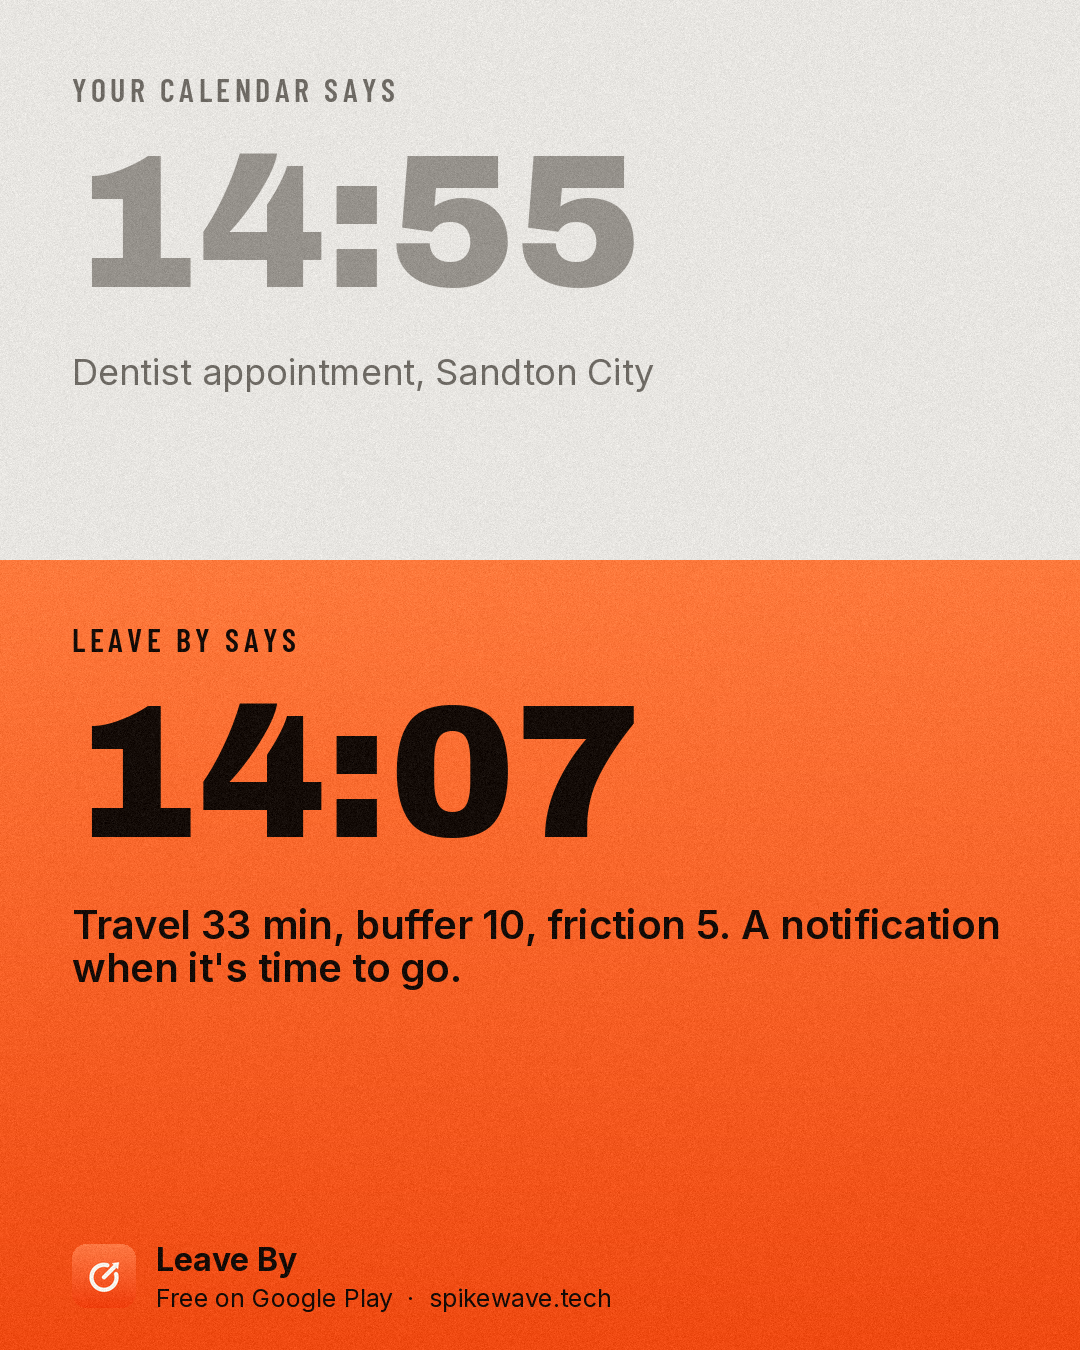
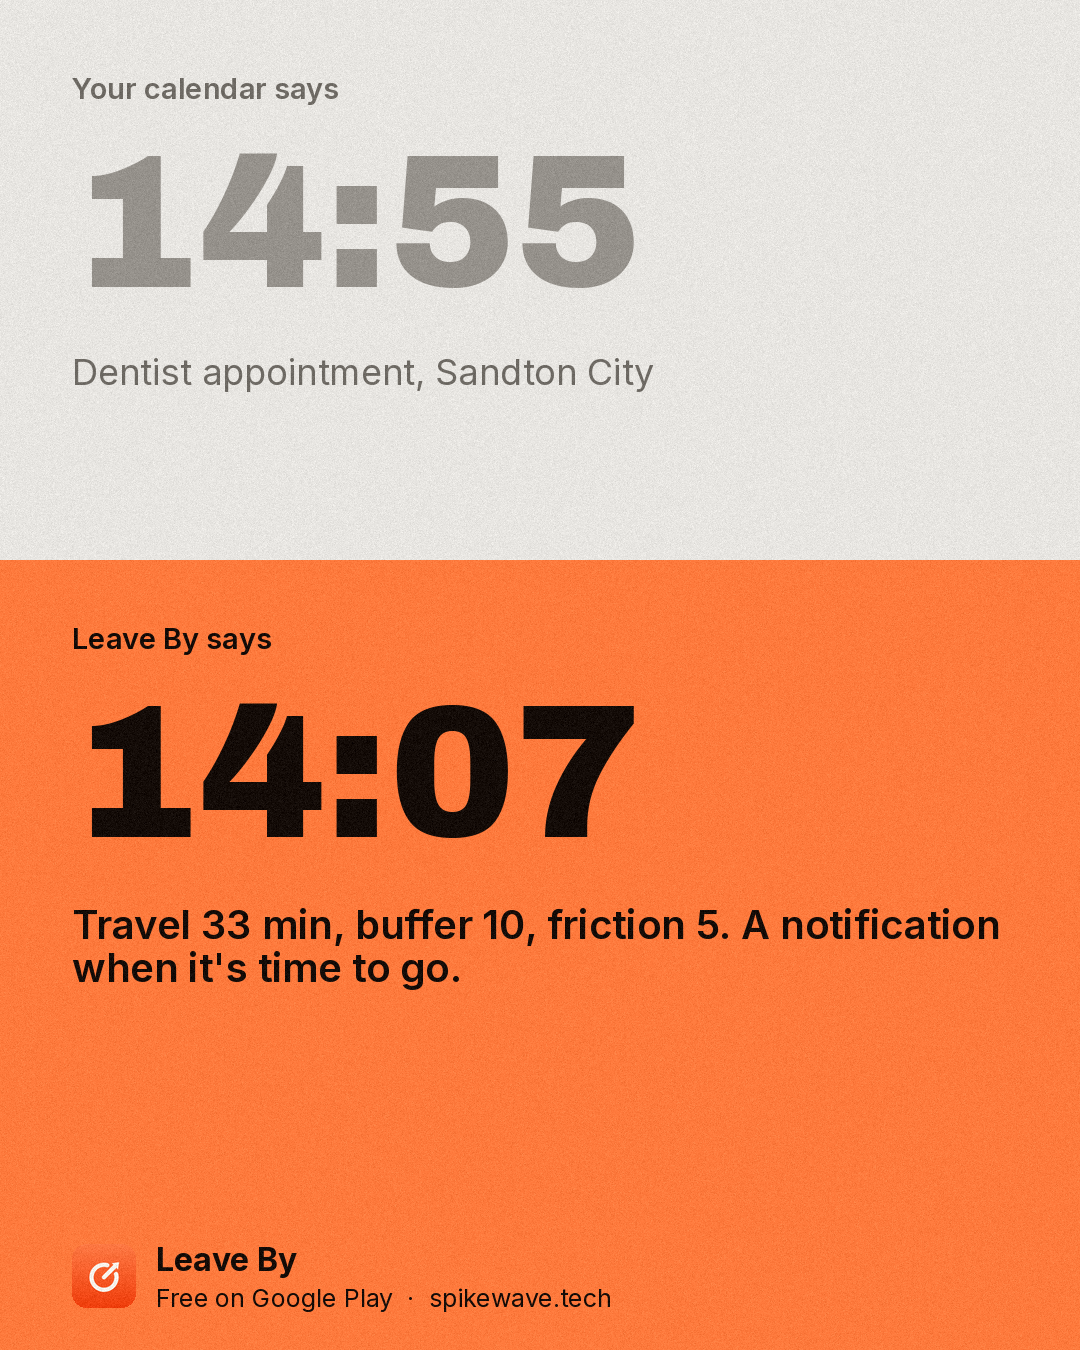
New plain look: re-render 6 static drafts; video tooling on light paper; re-render script

Changed region(s): [[0.0, 0.5911, 1.0, 1.0], [0.0611, 0.0622, 0.3667, 0.0933], [0.0611, 0.4667, 0.275, 0.4978]]

diff --git a/tooling/videos.py b/tooling/videos.py
@@ -147,12 +147,8 @@ def text_layer(size, fn):
 
 
 def ground(app, size, spot=(0.5, 0.42)):
-    """Deep app-tinted gradient with one soft spotlight and a faint accent glow."""
-    W, H = size
-    c = st.grad(size, tuple(int(v * 0.5) for v in app["accent2"]), tuple(int(v * 0.9) for v in app["dark"])).convert("RGBA")
-    st.glow(c, (int(W * spot[0]), int(H * spot[1])), int(max(W, H) * 0.42), app["accent"], 26)
-    st.glow(c, (int(W * 0.15), int(H * 0.05)), int(max(W, H) * 0.5), (255, 255, 255), 10)
-    return c
+    """Flat light paper (owner, 13 Nov 2026: no dark gradients or glows)."""
+    return Image.new("RGBA", size, st.PAPER + (255,))
 
 
 # ---------------------------------------------------------------- end cards
@@ -183,7 +179,7 @@ def end_card(app, slug, size, line, store, style="icon"):
         f = st.font("bold", 40)
         tw = d.textlength(store, font=f)
         d.rounded_rectangle([x, y + 50, x + tw + 84, y + 50 + 92], radius=46, fill=ink)
-        d.text((x + (tw + 84) / 2, y + 96), store, font=f, fill=app["accent"], anchor="mm")
+        d.text((x + (tw + 84) / 2, y + 96), store, font=f, fill=app["accent2"], anchor="mm")
         d.text((x, H - (120 if v else 80)), "from Spikewave", font=st.font("semi", 34), fill=ink)
         return c
     c = ground(app, size, (0.5, 0.38))
@@ -221,7 +217,7 @@ def short(spec, out):
 
     def cap_layer(text, words=None):
         def fn(d):
-            st.caps(d, (80, 150), spec["kicker"], f_k, app["accent"])
+            st.caps(d, (80, 150), spec["kicker"], f_k, app["accent2"])
             d.rectangle([80, 196, 80 + 56, 200], fill=app["accent"])
             st.text_block(d, (80, 222), text if words is None else " ".join(text.split()[:words]), f_h, INK, W - 160, lh=1.1)
         return text_layer((W, H), fn)
@@ -298,7 +294,7 @@ def short(spec, out):
             o = intro_bg.copy()
             d = ImageDraw.Draw(o)
             a = ease(t / 0.5)
-            st.caps(d, (90, 640), spec["kicker"], st.font("cond", 40), app["accent"])
+            st.caps(d, (90, 640), spec["kicker"], st.font("cond", 40), app["accent2"])
             st.text_block(d, (90, 700), spec["stat"], st.font("black", 150), INK + (int(255 * a),), W - 180, lh=1.0)
             d.text((90, 1120), spec.get("stat_sub", ""), font=st.font("regular", 44), fill=SUB + (int(255 * a),))
             c.alpha_composite(with_alpha(o, k))
@@ -340,7 +336,7 @@ def explainer(spec, out):
             c = base.copy()
             r = ease(min(t / 1.0, 1))
             phone.place(c, phone.layer(first), PCX, PCY + 600 * (1 - r), lerp(0.95, 1.0, r))
-            mo.fade_text(c, (160, 430), app["name"].upper(), st.font("cond", 44), app["accent"], ease((t - 0.3) / 0.5))
+            mo.fade_text(c, (160, 430), app["name"].upper(), st.font("cond", 44), app["accent2"], ease((t - 0.3) / 0.5))
             lay = text_layer((W, H), lambda d: st.text_block(d, (160, 490), spec["title"], st.font("black", 92), INK, 900, lh=1.04))
             c.alpha_composite(with_alpha(lay, ease((t - 0.5) / 0.6)))
             ln = text_layer((W, H), lambda d: st.text_block(d, (160, 700), spec["line"], st.font("regular", 40), SUB, 820, lh=1.3))
@@ -360,13 +356,13 @@ def explainer(spec, out):
         frames += [frames[-1]] * int(ch.get("hold", 0.8) * FPS)
 
         def draw_text(d, ch=ch, ci=ci):
-            st.caps(d, (160, 330), f"{ci + 1:02d}  /  {total:02d}", st.font("cond", 40), app["accent"])
+            st.caps(d, (160, 330), f"{ci + 1:02d}  /  {total:02d}", st.font("cond", 40), app["accent2"])
             d.rectangle([160, 384, 216, 388], fill=app["accent"])
             y = st.text_block(d, (160, 410), ch["head"], st.font("bold", 66), INK, 800, lh=1.08)
             st.text_block(d, (160, y + 26), ch["body"], st.font("regular", 38), SUB, 760, lh=1.38)
             for j in range(total):
                 d.rounded_rectangle([160 + j * 46, 880, 160 + j * 46 + (34 if j == ci else 14), 892], radius=6,
-                                    fill=(app["accent"] + (255,)) if j == ci else (255, 255, 255, 70))
+                                    fill=(app["accent"] + (255,)) if j == ci else (0, 0, 0, 46))
         txt = text_layer((W, H), draw_text)
         m = len(frames)
         for i, fr in enumerate(frames):
@@ -384,12 +380,12 @@ def explainer(spec, out):
     dur = wr.close(spec.get("music_start", 0))
 
     # thumbnail 1280x720: big text left, icon tile right
-    th = st.grad((1280, 720), tuple(int(v * 0.55) for v in app["accent2"]), app["dark"]).convert("RGBA")
+    th = Image.new("RGBA", (1280, 720), st.PAPER + (255,))
     st.glow(th, (930, 360), 520, app["accent"], 44)
     tt = mo.Tile(slug, 380)
     mo.place_tile(th, mo.turn(tt.render(0.35), 0.06), 950, 370, -9, None, 0)
     d = ImageDraw.Draw(th)
-    st.caps(d, (70, 150), app["name"], st.font("cond", 40), app["accent"])
+    st.caps(d, (70, 150), app["name"], st.font("cond", 40), app["accent2"])
     st.text_block(d, (70, 210), spec["thumb_text"], st.font("black", 92), INK, 640, lh=1.05)
     mo.dither(th.convert("RGB")).save(out[:-4] + "-thumb.jpg", quality=92)
     return dur

diff --git a/tooling/motion.py b/tooling/motion.py
@@ -26,7 +26,7 @@ import styles as st  # noqa: E402
 
 FF = os.environ.get("FFMPEG", r"C:\Users\vundl\anaconda3\Lib\site-packages\imageio_ffmpeg\binaries\ffmpeg-win-x86_64-v7.1.exe")
 W, H, FPS = 1080, 1920, 30
-INK, SUB = (246, 247, 250), (178, 183, 196)
+INK, SUB = (24, 24, 26), (104, 100, 94)   # light paper look since 13 Nov 2026 (was white on dark)
 SS = 2  # supersampling factor for the tile
 
 
@@ -168,17 +168,8 @@ def dither(img):
 
 
 def background(app, t, dark=False):
-    """Deep app-tinted gradient with a slow drifting light."""
-    if dark:
-        top, bot = (16, 16, 20), (6, 6, 8)
-    else:
-        top = tuple(int(v * 0.5) for v in app["accent2"])
-        bot = tuple(int(v * 0.9) for v in app["dark"])
-    c = st.grad((W, H), top, bot).convert("RGBA")
-    gx = W * (0.35 + 0.3 * math.sin(t * 0.3))
-    gy = H * (0.22 + 0.08 * math.cos(t * 0.23))
-    st.glow(c, (int(gx), int(gy)), 900, (255, 255, 255), 12 if dark else 20)
-    return c
+    """Flat light paper (owner, 13 Nov 2026: no dark gradients or glows). `dark` is kept for callers and ignored."""
+    return Image.new("RGBA", (W, H), st.PAPER + (255,))
 
 
 def fade_text(c, xy, text, f, fill, a, anchor="la", rise=24):
